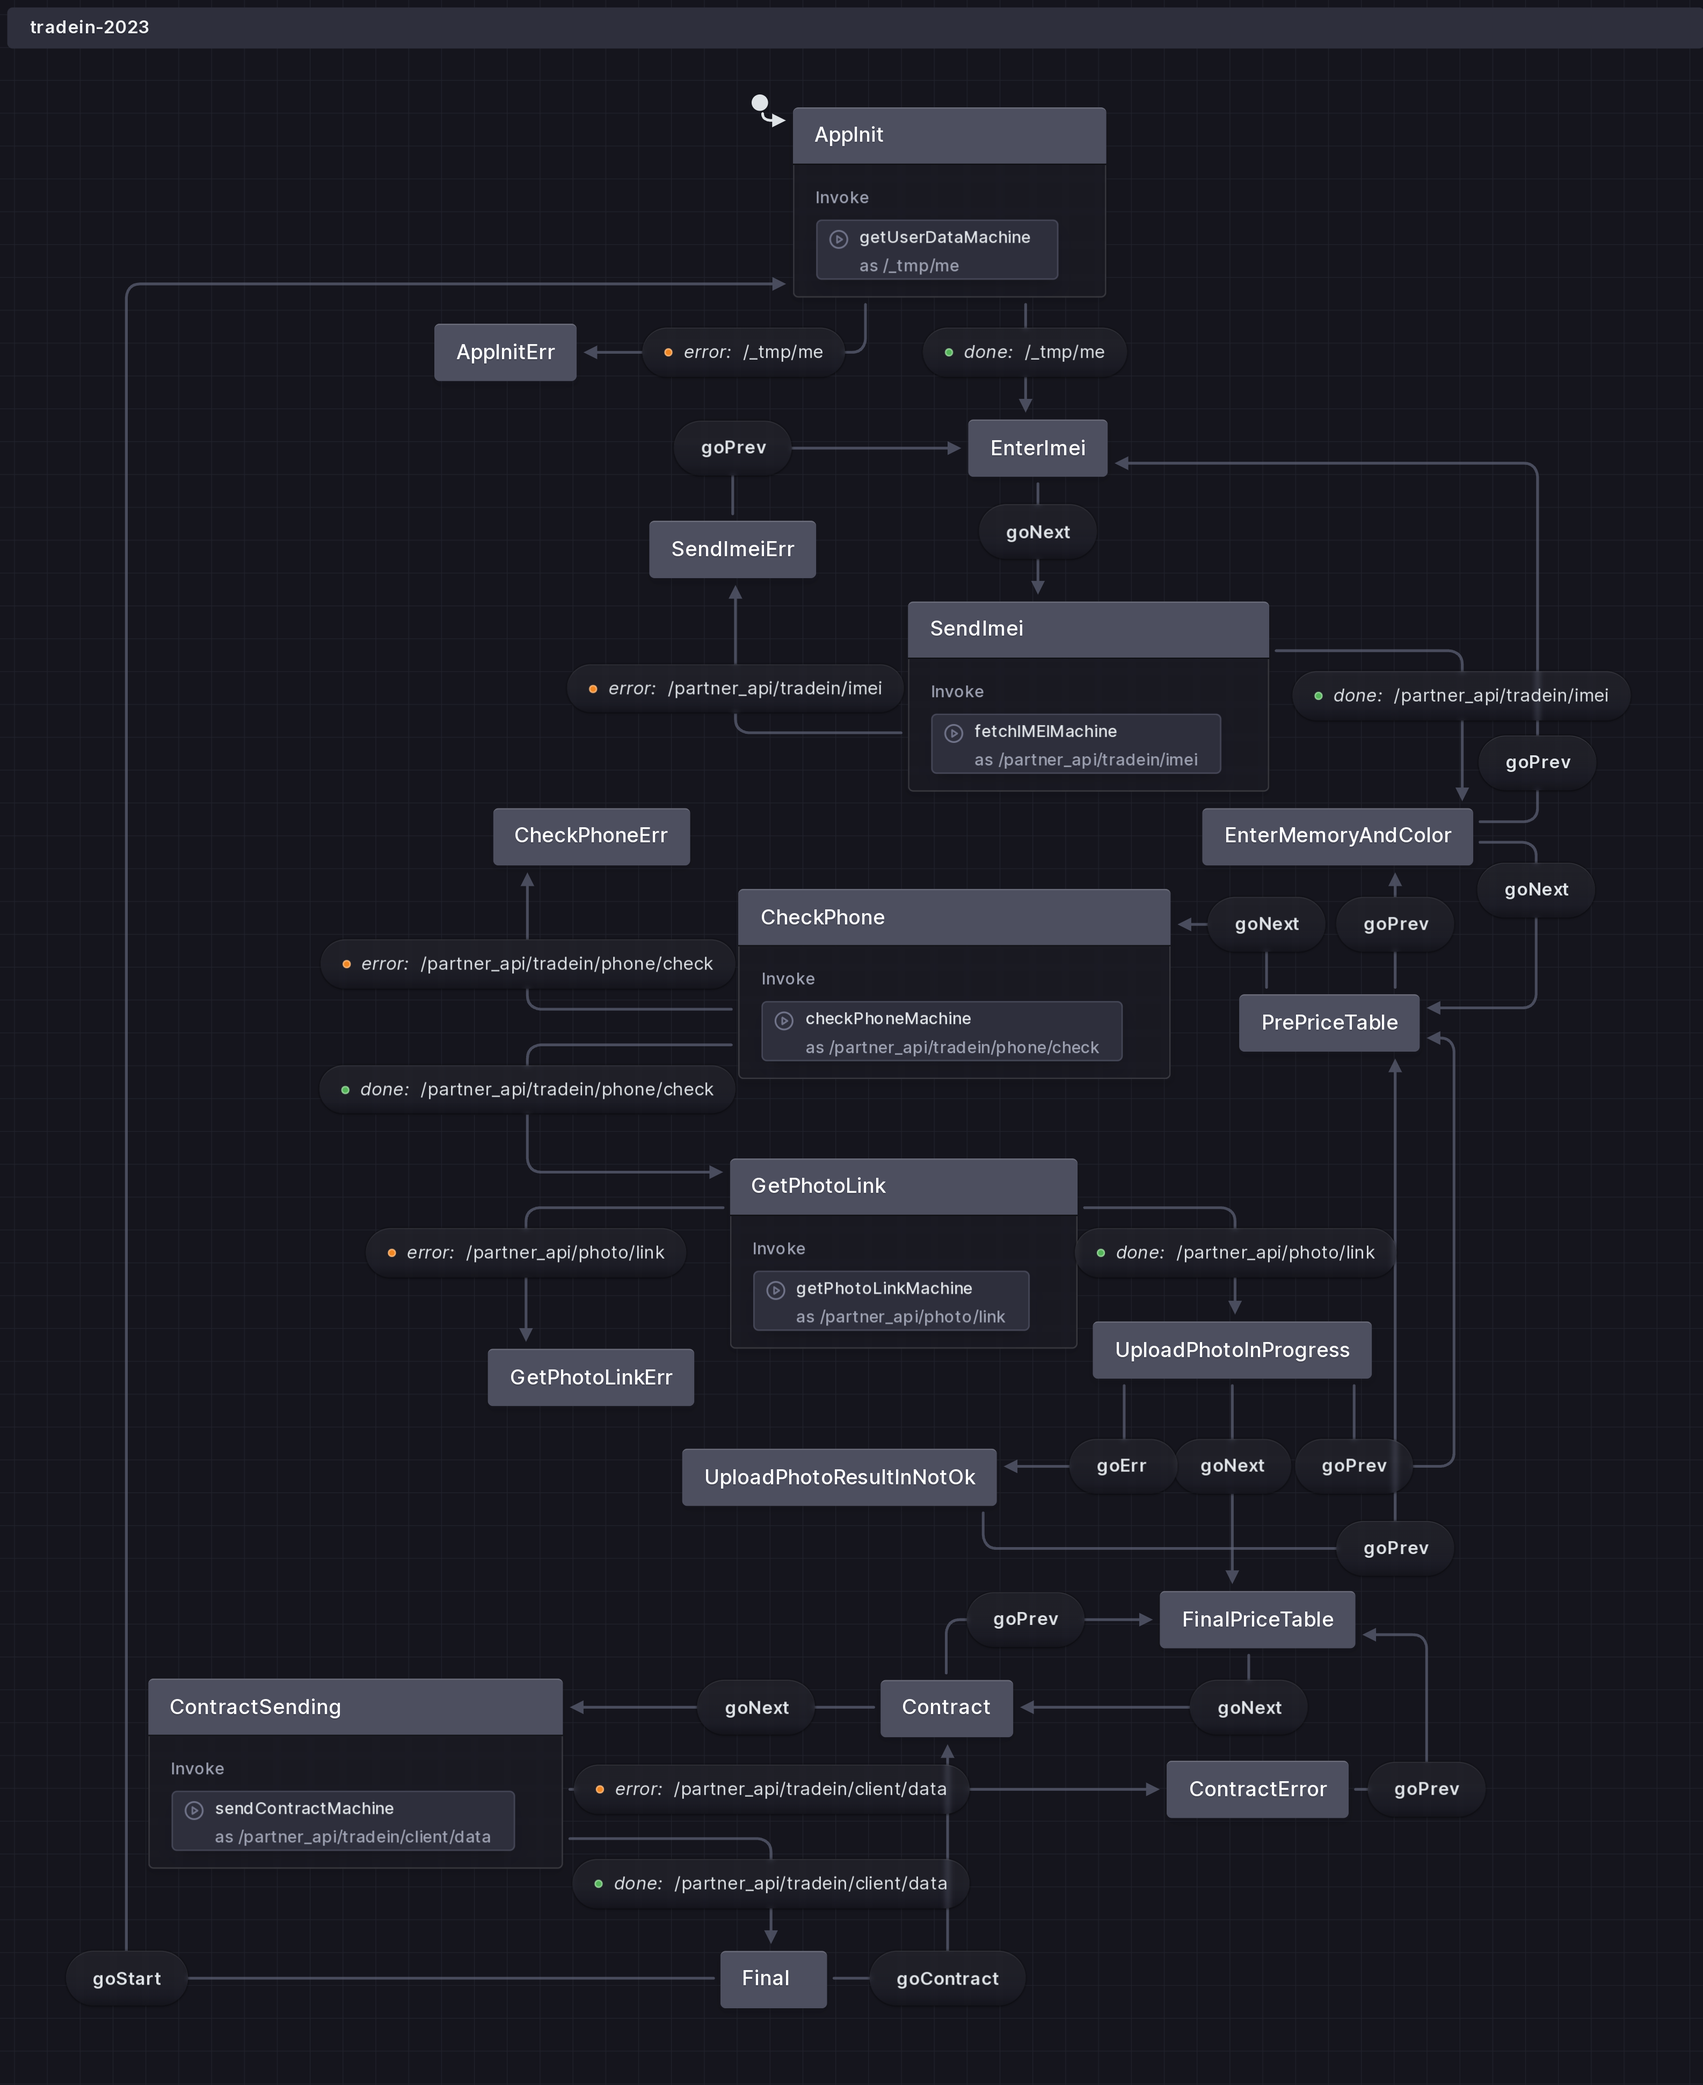
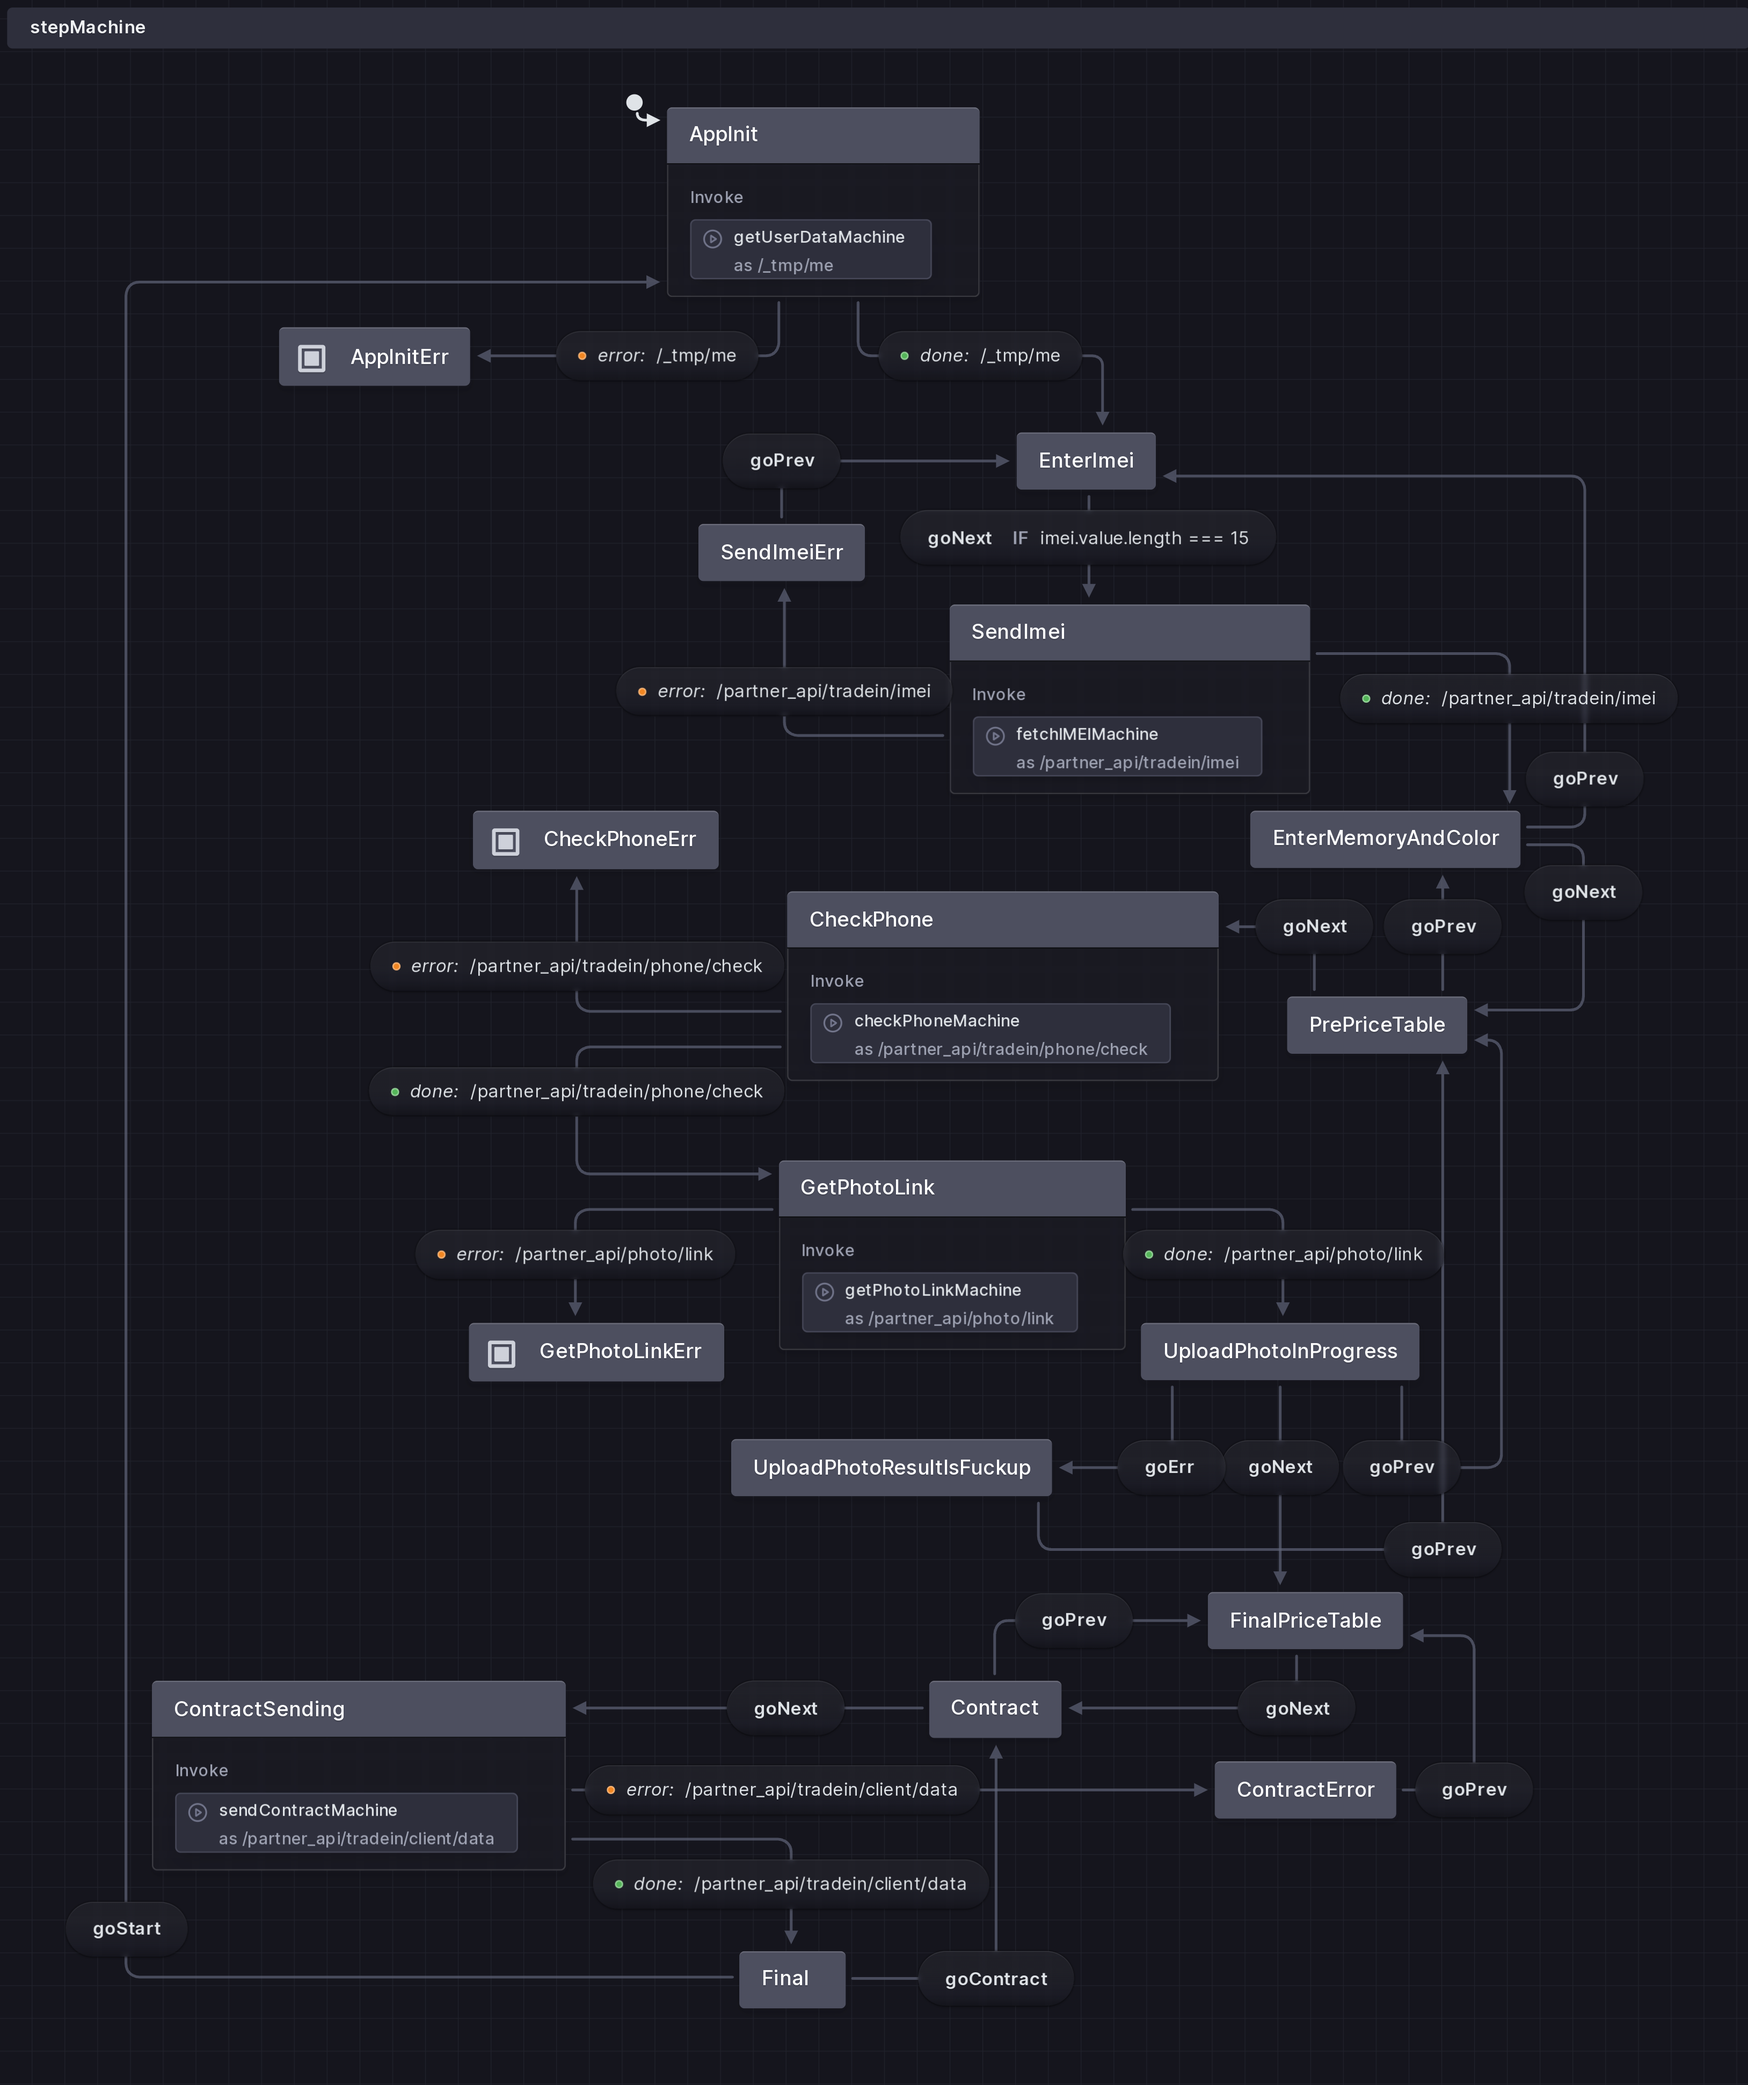
doc updated

diff --git a/src/common/xstate/stepMachine/stepMachine.ts b/src/common/xstate/stepMachine/stepMachine.ts
@@ -29,6 +29,7 @@ export const stepMachine = createMachine<TStepMachineContextFormat>(
       [EStep.AppInit]: {
         invoke: {
           src: 'getUserDataMachine',
+          id: '/_tmp/me',
           // data: (context) => ({ expText: 'exp text' }),
           onDone: {
             target: EStep.EnterImei,
@@ -80,6 +81,7 @@ export const stepMachine = createMachine<TStepMachineContextFormat>(
       [EStep.SendImei]: {
         invoke: {
           src: 'fetchIMEIMachine',
+          id: '/partner_api/tradein/imei',
           data: (context) => ({
             imei: context.imei,
             expText: 'exp text',
@@ -150,6 +152,7 @@ export const stepMachine = createMachine<TStepMachineContextFormat>(
       [EStep.CheckPhone]: {
         invoke: {
           src: 'checkPhoneMachine',
+          id: '/partner_api/tradein/phone/check',
           // data: (context) => ({}),
           onDone: {
             // NOTE: Uncomment for go automatically
@@ -195,6 +198,7 @@ export const stepMachine = createMachine<TStepMachineContextFormat>(
       [EStep.GetPhotoLink]: {
         invoke: {
           src: 'getPhotoLinkMachine',
+          id: '/partner_api/photo/link',
           // data: (context) => ({}),
           onDone: {
             // NOTE: Uncomment for go automatically
@@ -245,12 +249,12 @@ export const stepMachine = createMachine<TStepMachineContextFormat>(
           goPrev: {
             target: EStep.PrePriceTable,
           },
-          goUploadPhotoResultInNotOk: {
-            target: EStep.UploadPhotoResultInNotOk,
+          goErr: {
+            target: EStep.UploadPhotoResultIsFuckup,
           },
         },
       },
-      [EStep.UploadPhotoResultInNotOk]: {
+      [EStep.UploadPhotoResultIsFuckup]: {
         on: {
           goPrev: {
             target: EStep.PrePriceTable,
@@ -283,6 +287,7 @@ export const stepMachine = createMachine<TStepMachineContextFormat>(
       [EStep.ContractSending]: {
         invoke: {
           src: 'sendContractMachine',
+          id: '/partner_api/tradein/client/data',
           // data: (context) => ({}),
           onDone: {
             // NOTE: Uncomment for go automatically

diff --git a/src/App.tsx b/src/App.tsx
@@ -365,7 +365,7 @@ function App() {
                   switch (value.status) {
                     case 'fake':
                     case 'bad_quality':
-                      send({ type: 'goUploadPhotoResultInNotOk' })
+                      send({ type: 'goErr' })
                       break
                     case 'ok':
                       send({ type: 'goNext' })
@@ -380,7 +380,7 @@ function App() {
             )}
           </>
         )
-      case EStep.UploadPhotoResultInNotOk:
+      case EStep.UploadPhotoResultIsFuckup:
         return (
           <ContentWithControls
             header='📵 Что-то пошло не так'

diff --git a/public/static3/common/ww/u/ev/evs.js b/public/static3/common/ww/u/ev/evs.js
@@ -25,7 +25,7 @@ const NES = {
         CheckPhone: 'stepMachine:check-phone',
         GetPhotoLink: 'stepMachine:get-photo-link',
         UploadPhotoInProgress: 'stepMachine:upload-photo:in-progress',
-        UploadPhotoResultInNotOk: 'stepMachine:upload-photo:result-is-not-ok',
+        UploadPhotoResultIsFuckup: 'stepMachine:upload-photo:result-is-not-ok',
         FinalPriceTable: 'stepMachine:final-price-table',
         Contract: 'stepMachine:contract',
         ContractSending: 'stepMachine:contract-sending',

diff --git a/src/common/xstate/stepMachine/types.ts b/src/common/xstate/stepMachine/types.ts
@@ -12,7 +12,7 @@ export enum EStep {
   CheckPhone = 'stepMachine:check-phone',
   GetPhotoLink = 'stepMachine:get-photo-link',
   UploadPhotoInProgress = 'stepMachine:upload-photo:in-progress',
-  UploadPhotoResultInNotOk = 'stepMachine:upload-photo:result-is-not-ok',
+  UploadPhotoResultIsFuckup = 'stepMachine:upload-photo:result-is-not-ok',
   FinalPriceTable = 'stepMachine:final-price-table',
   Contract = 'stepMachine:contract',
   ContractSending = 'stepMachine:contract-sending',

diff --git a/_etc/docs/CODE_BY_XSTATE.md b/_etc/docs/CODE_BY_XSTATE.md
@@ -120,7 +120,7 @@ export const machine = createMachine(
             target: "PrePriceTable",
           },
           goErr: {
-            target: "UploadPhotoResultInNotOk",
+            target: "UploadPhotoResultIsFuckup",
           },
         },
       },
@@ -132,7 +132,7 @@ export const machine = createMachine(
           },
         },
       },
-      UploadPhotoResultInNotOk: {
+      UploadPhotoResultIsFuckup: {
         on: {
           goPrev: {
             target: "PrePriceTable",
